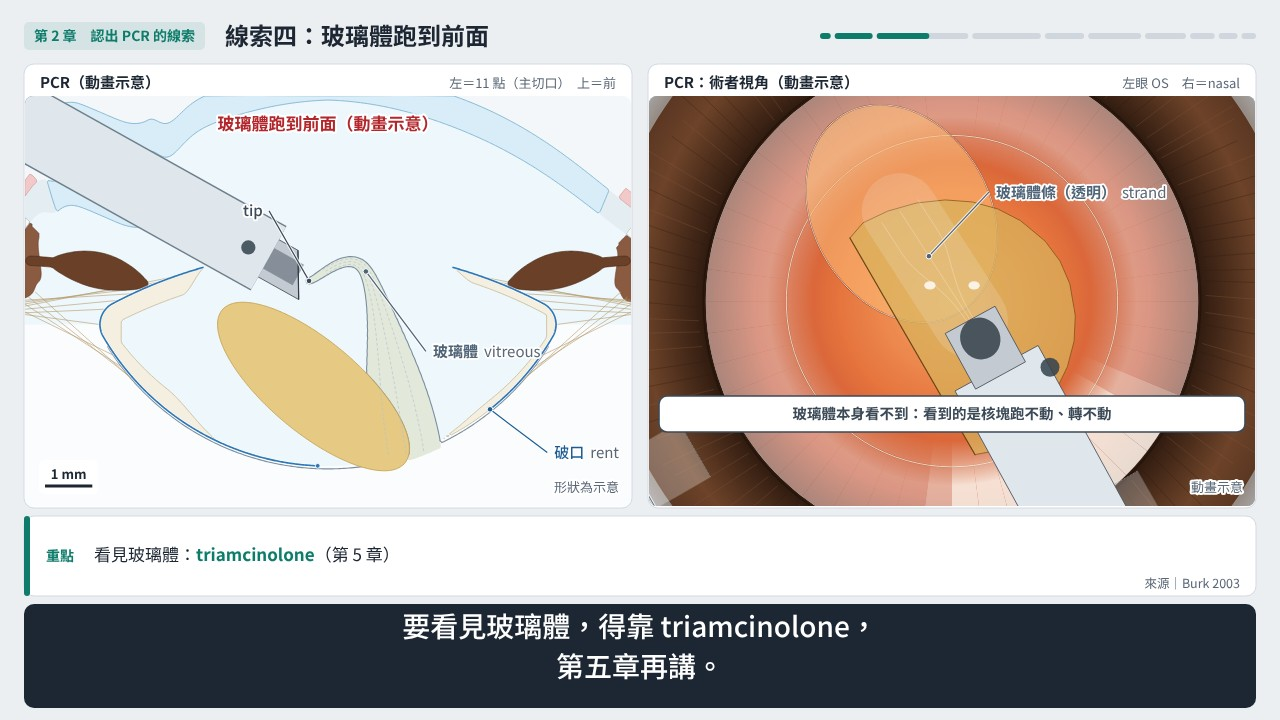
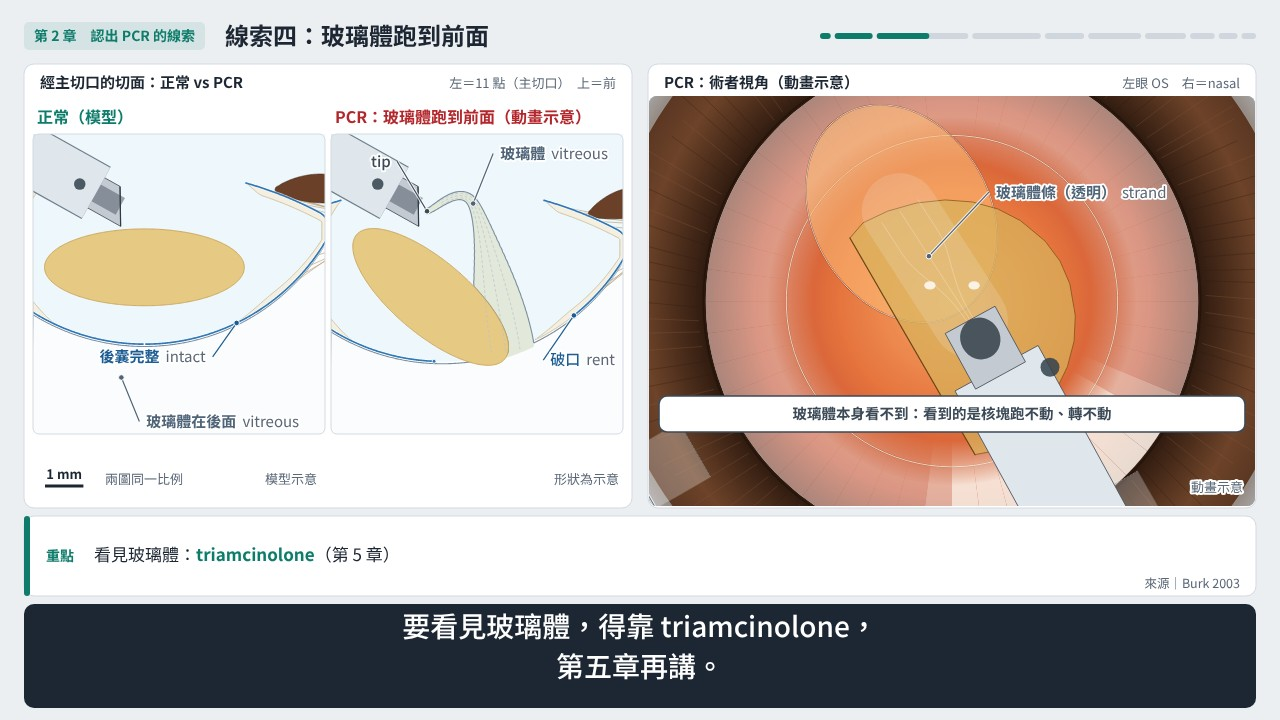
白內障 ④：線索三、四補「正常 vs PCR」並排（2-3、2-4；旁白沒改）
- 2-3：左面板改成同一視窗、同一比例（7.2 mm）的術者視角並排：正常（模型）紅光裡沒有清亮區｜PCR（動畫示意）清亮區；右邊切面沒改。
- 2-4：左面板改成同一視窗、同一比例（7.6 mm）的切面並排：正常（模型）後囊完整、玻璃體在後面｜PCR（動畫示意）玻璃體經破口到 tip；右邊術者視角沒改。
- check.js 第 4 節：2-1–2-4 每句都要有正常與 PCR 的模型圖並排（同一視角、OS、同一比例），故意改錯兩個都抓到（共 27 個）。
- 參考圖只更新 2-3、2-4（Claude 自檢）；規格書驗收打勾，進度與 overview-notes 記錄。check-all 全部 PASS。

Claude-Session: https://claude.ai/code/session_01UTYneMUKRrc1Hex89Apcyj

Changed region(s): [[0.0, 0.0917, 0.5, 0.6722], [0.4062, 0.6111, 0.5, 0.7028], [0.0312, 0.6417, 0.1562, 0.6722]]

diff --git a/videos/src/cataract-4-pcr/check.js b/videos/src/cataract-4-pcr/check.js
@@ -13,6 +13,9 @@
 // 3. Wording rules of this case (the user's answers, 2026-11-10): the PCR moment is never stated as seen; triamcinolone is 「看起來是…（術者推測）」;
 //    the IOL position comes from the surgeon; nothing is said about lens fragments in the vitreous, a VR referral or the 29:40–31:45 injections
 //    for this case; no line about this case judges it.
+// 4. Normal vs PCR (spec acceptance): at 60 % of every line of the four cue segments (2-1–2-4) a model view of a normal eye (no rent) is on screen
+//    beside a PCR view (rent) of the same view type, the left eye OS and the same px per mm, with 「正常」 and 「動畫示意」 written. The views say
+//    what they draw (data-view / data-eye / data-rent / data-k, set by draw.js from the state each view is drawn from).
 // --selftest breaks each check once on purpose and fails unless every check then reports the error. --list prints the numbers per segment.
 global.document = { createElement: () => ({ getContext: () => ({ measureText: () => ({ width: 10 }) }) }) };
 const path = require('path');
@@ -87,9 +90,30 @@ async function screenText() {   // all text drawn on screen per segment (60 % an
     for (const [fn, clips] of Object.entries(runs)) { r[fn] = [];
       for (const id of clips) for (let s = C[id].in; s <= C[id].out + 1e-9; s += 0.5) r[fn].push({ s, cat: JSON.parse(JSON.stringify(A[fn](s).cat)) }); }
     return r; });
+  // the cue segments: the model views on screen at 60 % of every line (view type, eye, rent, px per mm, opacity) and whether 正常 / 動畫示意 are written
+  const cues = await p.evaluate(ids => { const r = {};
+    const op = el => { let o = 1; for (let x = el; x && x.id !== 'stage'; x = x.parentElement) { const v = x.getAttribute('opacity'); if (v !== null) o *= parseFloat(v); } return o; };
+    for (const id of ids) { const s = TL_EXPORT.find(x => x.id === id);
+      r[id] = s.lines.map(([a, e]) => { renderAt(a + (e - a) * 0.6);
+        const txt = [...document.querySelectorAll('#stage text')].filter(t => op(t) > 0.5).map(t => t.textContent).join('|');
+        const views = [...document.querySelectorAll('#stage [data-view]')].map(g => ({ view: g.getAttribute('data-view'), eye: g.getAttribute('data-eye'), rent: +g.getAttribute('data-rent'), k: +g.getAttribute('data-k'), op: op(g) }));
+        return { views, normal: /正常/.test(txt), anim: /動畫示意/.test(txt) }; }); }
+    return r; }, CUE_SEGS);
   await b.close();
   if (errs.length) throw new Error('page errors: ' + errs.join(' | '));
-  return { out, foot, sync };
+  return { out, foot, sync, cues };
+}
+// ---------------------------------------------------------------- 4. normal vs PCR side by side for every cue
+const CUE_SEGS = ['2-1', '2-2', '2-3', '2-4'];
+function cueChecks(ctx) {
+  const R = [], ok = (c, m) => R.push([!!c, m]), bad = [], seen = [];
+  for (const id of CUE_SEGS) { const F = ctx.cues[id] || [];
+    if (F.length !== ctx.text[id].lines.length) bad.push(`${id}: ${F.length} of ${ctx.text[id].lines.length} lines sampled`);
+    F.forEach((f, i) => { const v = f.views.filter(x => x.op > 0.5);
+      const pair = v.find(n => !n.rent && v.some(q => q.rent && q.view === n.view && q.eye === n.eye && Math.abs(q.k - n.k) <= 0.01 * n.k));
+      if (!pair || !v.every(x => x.eye === 'OS') || !f.normal || !f.anim) bad.push(`${id} line ${i}`); else if (!i) seen.push(`${id} ${pair.view}`); }); }
+  ok(!bad.length, `every PCR cue shows a normal model view beside a PCR one at every line — same view type, left eye OS, same px per mm; 「正常」 and 「動畫示意」 written (${seen.join(', ')})${bad.length ? '; missing: ' + bad.join(', ') : ''}`);
+  return R;
 }
 
 // ---------------------------------------------------------------- geometry: instrument clearance (as globe/check.js; the posterior capsule may be crossed only inside the rent)
@@ -233,14 +257,14 @@ function ledgerChecks(ctx) {
   return R;
 }
 const clone = o => JSON.parse(JSON.stringify(o));
-let SCREEN = null, FOOTON = null, SYNC = null;
+let SCREEN = null, FOOTON = null, SYNC = null, CUES = null;
 function baseCtx() {
   const text = {}; for (const s of SEGS) text[s.id] = clone(s);
-  return { P: clone(CASE), foot: { sources: FOOT.sources, clips: clone(FOOT.clips) }, text, segs: clone(SEGS), screen: clone(SCREEN), ledger: clone(LEDGER), footOn: clone(FOOTON), sync: clone(SYNC) };
+  return { P: clone(CASE), foot: { sources: FOOT.sources, clips: clone(FOOT.clips) }, text, segs: clone(SEGS), screen: clone(SCREEN), ledger: clone(LEDGER), footOn: clone(FOOTON), sync: clone(SYNC), cues: clone(CUES) };
 }
-const runAll = ctx => [...ledgerChecks(ctx), ...modelChecks(ctx), ...wordingChecks(ctx)];
+const runAll = ctx => [...ledgerChecks(ctx), ...modelChecks(ctx), ...wordingChecks(ctx), ...cueChecks(ctx)];
 (async () => {
-  const { out, foot, sync } = await screenText(); SCREEN = out; FOOTON = foot; SYNC = sync;
+  const { out, foot, sync, cues } = await screenText(); SCREEN = out; FOOTON = foot; SYNC = sync; CUES = cues;
   if (process.argv.includes('--list')) { for (const s of SEGS) if (!s.chapterCard && s.layout !== 'refs') { const t = [s.title || '', ...(s.lines || []), ...(s.keys || []).map(k => k[1]), ...(out[s.id] || [])];
     console.log(s.id, [...new Set(t.flatMap(numbers))].join(' '), '|', [...new Set(t.flatMap(x => cites(x).map(c => c.all)))].join(', ')); } return; }
   const res = runAll(baseCtx());
@@ -274,6 +298,8 @@ const runAll = ctx => [...ledgerChecks(ctx), ...modelChecks(ctx), ...wordingChec
       ['TA stated as certain', c => { c.text['5-5'].lines[1] = c.text['5-5'].lines[1].replace('看起來是 triamcinolone（術者推測）', '這是 triamcinolone'); }],
       ['the case judged', c => { c.text['3-3'].lines[3] += '本例應該先打 OVD。'; }],
       ['the case\'s dropped fragment narrated', c => { c.text['4-4'].lines[2] = '本例的核塊掉進玻璃體腔，轉給 VR。'; }],
+      ['cue three (2-3) drawn without its normal view', c => { for (const f of c.cues['2-3']) f.views = f.views.filter(v => v.rent); }],
+      ['cue four (2-4): the normal view at another scale', c => { for (const f of c.cues['2-4']) for (const v of f.views) if (!v.rent) v.k *= 0.6; }],
     ];
     let bad = 0;
     for (const [name, mut] of M) { const c = baseCtx(); mut(c); const n = runAll(c).filter(r => !r[0]).length; console.log(`${n ? 'PASS' : 'FAIL'} selftest: breaking 「${name}」 → ${n} check(s) fail`); if (!n) bad++; }

diff --git a/videos/src/cataract-4-pcr/overview-notes.md b/videos/src/cataract-4-pcr/overview-notes.md
@@ -1,6 +1,6 @@
 # 出片前總覽：示意、院內常規與證據等級
 
-2026-11-10。第 1 版（旁白、錄影片段、每段第一版畫面；Claude 小助手）；同日精修第 1 輪（畫面：1-3、2-6、3-3、4-1–4-3、5-5、6-1、7-2 與全片標籤；旁白沒改）；同日出片前檢查、總覽、publish 檔與一頁式跟刀單（下面兩節）。每段的參考圖在 `ref/`（Claude 自檢，dpr 1）。這支片沒有手術日期，純學習用，不做術前速讀包。
+2026-11-10。第 1 版（旁白、錄影片段、每段第一版畫面；Claude 小助手）；同日精修第 1 輪（畫面：1-3、2-6、3-3、4-1–4-3、5-5、6-1、7-2 與全片標籤；旁白沒改）；同日出片前檢查、總覽、publish 檔與一頁式跟刀單（下面兩節）；同日補 2-3、2-4 的「正常 vs PCR」並排（「出片前檢查」最後一項）。每段的參考圖在 `ref/`（Claude 自檢，dpr 1）。這支片沒有手術日期，純學習用，不做術前速讀包。
 
 每章一張總覽圖放在 `ref/overview/`（1920×1080，和影片同解析度；`render.js --stills` 從出片前檢查後的工作目錄截，Claude 放大自檢，2026-11-10）：
 
@@ -23,6 +23,8 @@
 - **修正 2：剩下的核吃完的時間**。原本記成 17:02 phaco 退出；重讀是 17:03.8（17:02.5 片段最後一格 phaco 還在眼內，影片只播到約 16:01）。旁白「兩分多鐘」不變（14:44.5 → 17:03.8＝2 分 19 秒，原本算 2 分 17 秒）。`params.js` 加 `phacoOut`，`check.js` 用它算「兩分多鐘」並檢查它在片段之後；右邊模型的吃核進度改成在片段結束前 6.5 秒吃完（進度本來就是示意；影片播到的那一段畫面不變）。
 - 其他段落：沒有看到要改的畫面問題。之前列的弱點照舊：2-6、3-3 的錄影本身紅光弱（右邊的清單與模型補足）；4-2、4-3 器械的層次是示意。
 - 驗收「每個 PCR 線索都『正常 vs PCR』並排」：線索一（2-1）、線索二（2-2）是同一刻正常與 PCR 並排；線索三（2-3）與線索四（2-4）只畫 PCR，正常的紅光與核塊在 2-1、2-2 的左邊，紅光好與紅光弱的對照在 2-6 與 2-7。要完全符合，2-3、2-4 各要加一個正常的小圖（不擋出片，列給主 session 決定）。
+- **2026-11-10 補齊**：2-3、2-4 的左面板改成兩個同一視窗、同一比例的小圖並排（2-3 術者視角 7.2 mm：正常＝紅光裡沒有清亮區、PCR＝清亮區；2-4 切面 7.6 mm：正常＝後囊完整、玻璃體在後面，PCR＝玻璃體經破口到 tip），正常在左、標「正常（模型）」，PCR 在右、標「動畫示意」，都是左眼 OS；右面板沒改。現在四個線索每一句都是正常與 PCR 並排，`check.js` 第 4 節檢查（同一種視角、OS、同一比例；故意改錯會擋）。旁白沒改。第 2 章總覽（2-5）不受影響。
+  - 放大自檢時看到：模型的後囊線在後極有約 1 px 的接縫（2-4 正常圖「後囊完整」左邊；1-1、2-1 的切面也有，是 `globe/` 的畫法，不是破口）。影片解析度幾乎看不出，這次沒動模型；之後改 `globe/` 時可以順手接起來。
 
 ## 一頁式跟刀單（`print/`，2026-11-10）
 - 院內 LSs 紙（210 × 270 mm 橫式）三張：跟刀清單：PCR 演練（8 項：認出 2 項、第一步 2 項［phaco 時、I/A 時］、評估、剩下的核、玻璃體、IOL）、手術步驟圖（8 格：1–7 左＝11–5 切面、右＝OS 術者視角；8＝兩個放大 11 點周邊的切面：3-piece 在 sulcus、optic capture）、關鍵解剖與數字速查（三張切面：phaco 吃最後一塊核＋後囊 3.5 µm、經 pars plana 3.5 mm、sulcus 放大；兩張表）。產生：`node videos/tools/print/print.js videos/src/cataract-4-pcr --gray`（輸出在 `out/print/`，不進 git）；三張 PASS；彩色與灰階全頁、密的格子放大自檢（引線不交叉、器械沒被蓋住、兩個孔周圍淨空）。

diff --git a/videos/src/cataract-4-pcr/spec.md b/videos/src/cataract-4-pcr/spec.md
@@ -69,7 +69,7 @@
 ## 驗收項目
 - [ ] 系列規格書的「系列層級的驗收」全部適用（上傳與同步網站還沒做）。
 - [x] 第 2–3 章（認出＋第一步）至少占全片 40%（4:33／11:23＝40.0%）。
-- [ ] 每個 PCR 線索都有文獻出處，並「正常 vs PCR」並排；本例錄影看不到的線索用動畫示意並明說。（出處、動畫示意與明說都有；並排只有線索一、二，線索三、四只畫 PCR：見 `overview-notes.md`「出片前檢查」最後一項）
+- [x] 每個 PCR 線索都有文獻出處，並「正常 vs PCR」並排；本例錄影看不到的線索用動畫示意並明說。（2026-11-10 補齊：線索一、二是左右兩個面板；線索三、四在左面板並排兩個同一視窗、同一比例的小圖［2-3 術者視角、2-4 切面］；`check.js` 第 4 節檢查四段每一句都有）
 - [x] 本例術者的做法只描述、不評斷；建議做法都標出處（`check.js` 措辭檢查）。
 - [x] 錄影檢查：裁切離兩條邊線 ≥ 4 px；主切口在正下方 ±30°（本例 31–38°，clip 加 `rot` 8° → 23°）；`eye: 'OS'`；事件在 clip 內；影格齊全。
 - [x] 數字（sulcus 度數調整、轉診時機、機器設定）都在數字帳本、有出處或標示意／院內常規（機器設定不講數字）。
@@ -125,3 +125,9 @@
   - `print/`：LSs 三張（跟刀清單：PCR 演練 8 項、手術步驟圖 8 格、關鍵解剖與數字速查），`print.js --gray` 三張 PASS，彩色與灰階放大自檢。
   - `check-all` 全部 PASS。
   - 出片前要知道的：驗收「每個線索正常 vs PCR 並排」只有線索一、二做到（線索三、四只畫 PCR）；要補的話是 2-3、2-4 各加一個正常的小圖。2-6、3-3 的錄影本身紅光弱（若之後有紅光好的 PCR 錄影，換這兩段最有價值）。
+- 2026-11-10（補「正常 vs PCR 並排」；Claude 小助手。旁白、重點、來源與時間軸沒改，不重做語音，`textBase` 不變；模型 `globe/` 沒改）：
+  - **2-3**（線索三：清亮的紅光）：左面板改成兩個同一視窗、同一比例（寬 7.2 mm）的術者視角並排：左「正常（模型）」核塊在 tip 下、紅光裡沒有清亮區（標籤「沒有清亮區」指在破口旁邊、核塊沒蓋住的紅光），右「PCR（動畫示意）」清亮區；I/A 吸到後囊的框移到兩圖下方。右邊「紅光直接透出」的切面沒改。
+  - **2-4**（線索四：玻璃體跑到前面）：左面板改成兩個同一視窗、同一比例（寬 7.6 mm，一條 1 mm 比例尺）的切面並排：左「正常（模型）」後囊完整、玻璃體在後面，右「PCR：玻璃體跑到前面（動畫示意）」照舊（破口、玻璃體、tip）。右邊術者視角（玻璃體看不到）沒改。
+  - 兩段都是左眼 OS、和線索一、二同一種畫法（正常＝綠、PCR＝紅、「動畫示意」在 PCR 那邊）；正常那邊是模型示意，沒有新的數字或出處。
+  - `check.js` 第 4 節：2-1–2-4 每句 60 % 時，畫面上要有一個沒有破口的模型圖，旁邊有同一種視角、同一眼別（OS）、同一比例（px/mm）的 PCR 圖，並寫著「正常」與「動畫示意」（`draw.js` 的每個模型圖標記自己畫的視角、眼別、有沒有破口、比例）；故意改錯兩個（2-3 拿掉正常圖、2-4 正常圖換比例）都抓到，故意改錯共 27 個全部抓到。
+  - 參考圖只更新 2-3、2-4（Claude 自檢，`manifest.json` 記了改了什麼）；第 2 章總覽圖是 2-5，沒有變，不重截。`check-all` 全部 PASS。驗收「每個線索正常 vs PCR 並排」打勾。
